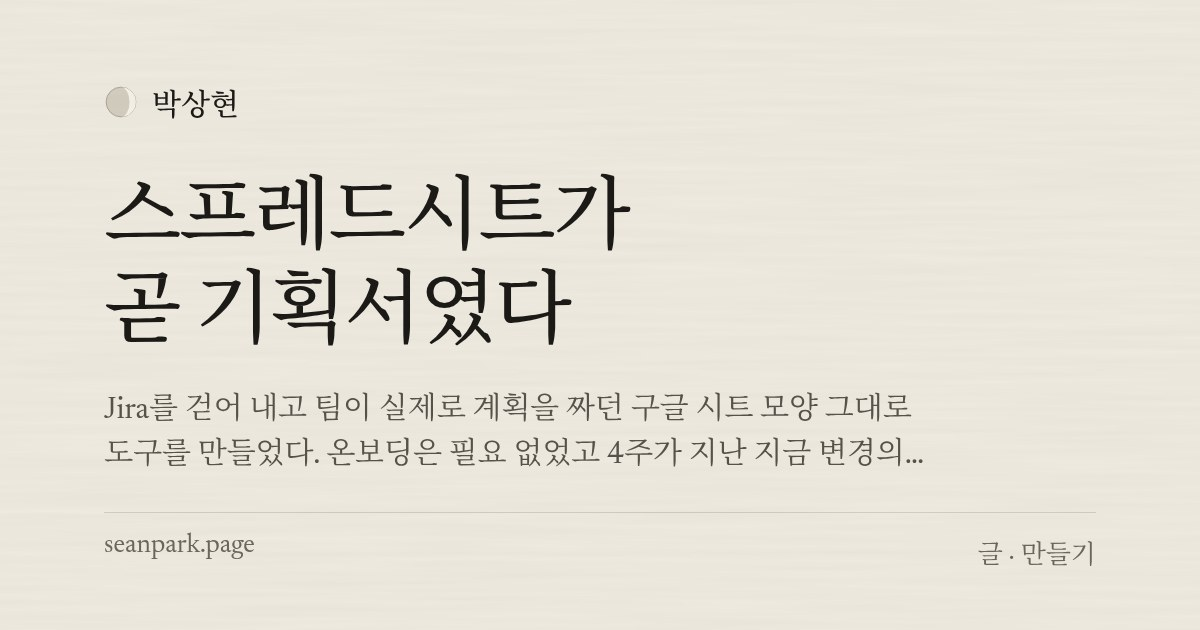
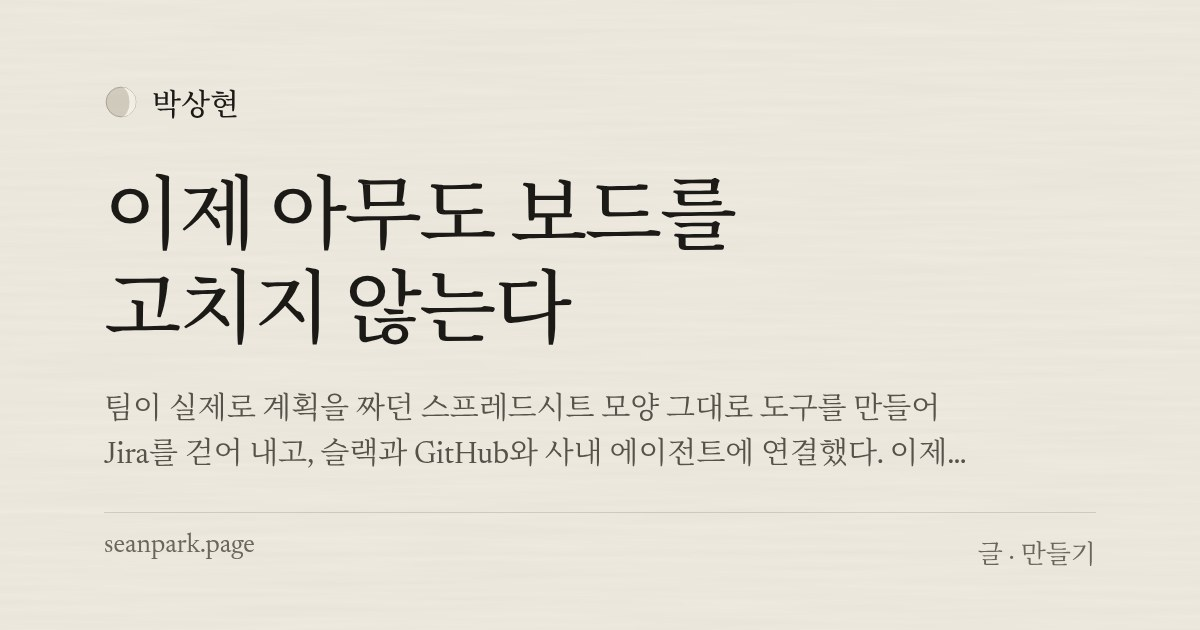
Writing: the-sheet reframed as Nobody updates the board anymore (EN + KO), no metrics; double-diamond figure; share cards; e2e follows the new title and figure

diff --git a/src/styles/global.css b/src/styles/global.css
@@ -336,6 +336,15 @@ main{margin-left:calc(var(--gut) + var(--rail));padding-right:48px;max-width:100
 .prose .flow li:not(:last-child)::after{content:"→";position:absolute;right:-20px;top:5px;color:var(--faint)}
 .prose .flow small{display:block;font-size:13px;color:var(--faint)}
 .prose .flow .loop{font-size:15px;color:var(--soft);margin-top:12px}
+/* the-sheet: a double diamond, the opening halves shaded (AI with each engineer), a dot where each one closes (a meeting) */
+.prose figure.dd{width:100%}
+.prose .dd svg{display:block;width:100%;height:auto;overflow:visible}
+.prose .dd polygon{stroke:var(--fg);stroke-width:1;vector-effect:non-scaling-stroke;stroke-linejoin:round}
+.prose .dd .op{fill:var(--fg);fill-opacity:.12}.prose .dd .cl{fill:none}
+.prose .dd circle{fill:var(--fg)}
+.prose .dd ol{display:grid;grid-template-columns:repeat(4,minmax(0,1fr));gap:0 10px;margin-top:10px;font-size:15px;line-height:1.3}
+.prose .dd li{padding:0;margin:0}.prose .dd li::before{content:none}
+.prose .dd small{display:block;font-size:13px;color:var(--faint);margin-top:2px}
 .prose .split .bar{display:flex;gap:2px;height:22px}
 .prose .split i{flex:0 0 calc(var(--w) - 2px);background:var(--fg);border-radius:2px}
 .prose .split i:nth-child(2){opacity:.45}.prose .split i:nth-child(3){opacity:.2}

diff --git a/src/content/writing-ko/the-sheet.md b/src/content/writing-ko/the-sheet.md
@@ -1,34 +1,38 @@
 ---
-title: 스프레드시트가 곧 기획서였다
-dek: Jira를 걷어 내고 팀이 실제로 계획을 짜던 구글 시트 모양 그대로 도구를 만들었다. 온보딩은 필요 없었고 4주가 지난 지금 변경의 대부분은 사람이 입력하지 않는다.
+title: 이제 아무도 보드를 고치지 않는다
+dek: 팀이 실제로 계획을 짜던 스프레드시트 모양 그대로 도구를 만들어 Jira를 걷어 내고, 슬랙과 GitHub와 사내 에이전트에 연결했다. 이제 기록은 일하는 과정에서 저절로 남고, 회의는 사람이 내려야 하는 결정에만 쓴다.
 lens: 만들기
-keywords: ["Jira 대체 사내 도구", "온보딩 없는 사내 도구 도입", "AI 에이전트 프로젝트 관리", "pave the cowpaths"]
-tldr: "팀이 이미 믿는 모양을 베끼고 팀이 이미 쓰는 말로 이름을 붙였다. 그러자 연동에 규칙이 필요 없어졌다. 4주 동안 쌓인 변경 4,307건 가운데 78%는 사람이 직접 입력한 게 아니다."
+keywords: ["애자일 다음의 개발 방식", "AI 에이전트 프로젝트 관리", "개발팀의 더블 다이아몬드", "Jira 대체 사내 도구", "pave the cowpaths"]
+tldr: "애자일에서 보드를 맞게 유지하는 건 사람이 치르는 의식이었다. 도구를 팀의 모양과 팀의 말로 만들고 일이 실제로 일어나는 곳에 연결하면 보드는 알아서 맞춰진다. 그러면 회의는 진행 상황과 배경 설명을 건너뛰고 곧장 결정으로 간다."
 ---
 
-첫 커밋을 하고 3주 뒤에 Jira를 닫았다. 킥오프도 사용법 교육도 없었고 「도구 쓰는 법」 문서는 지금도 없다.
+우리 팀에서는 이제 아무도 보드를 손으로 고치지 않는다. 보드가 일에서 알아서 갱신되고, 그 덕에 회의의 쓰임새가 바뀌었다.
 
-이 도구는 구글 시트를 그대로 베낀 것이다.
+워터폴 시절 계획은 누군가 처음에 써 둔 문서에 있었다. 애자일은 계획을 보드로 옮겼고, 그 보드를 맞게 유지하는 일을 팀의 의식으로 만들었다. 스탠드업, 백로그 정리 회의, 다음 칸으로 옮겨야 하는 티켓 같은 것들이다. 이 의식이 대부분 필요한 이유는 보드가 일을 직접 볼 수 없어서다. 그래서 누군가 알려 줘야 한다.
 
-## 계획은 사실 시트에 있었다
+그다음에 올 것의 이름은 나도 모르고, 이름을 안다고 하는 사람은 좀 의심한다. 다만 Baze를 만드는 우리 팀에서 그 작은 버전 하나가 실제로 일어나는 걸 봤다. 시작은 스프레드시트였다.
 
-9월까지 Baze를 만드는 팀은 구글 시트 한 장으로 계획을 짰다. 열 명 남짓한 팀이고 릴리스는 거의 매주 나간다. 달이 바뀔 때마다 탭을 새로 만들었다. 사람마다 색 띠가 있었고 작업 하나는 걸리는 주만큼 병합한 칸 하나였다. 맨 위 두 줄에는 그 주의 주요 날짜와 릴리스 단계(「R24 QA + 배포; R25 Dev」 같은 식)를 적었다. 누가 언제 무엇을 하는지 한눈에 보였다.
+## 계획은 스프레드시트에 있었다
 
-시트에 담을 수 없는 건 상태였다. 작업이 진행 중인지, 스테이징에 올라갔는지는 Jira에만 있었고 둘을 잇는 건 누군가 칸에 손으로 붙여 넣은 티켓 번호뿐이었다. 같은 기능의 프론트엔드 작업과 백엔드 작업은 서로 다른 사람의 줄에 따로 그려져 있어서 한쪽이 밀려도 다른 쪽은 몰랐다. 일정을 하루 옮기려면 병합을 풀고 다시 병합해야 했다. 9월쯤 그 파일의 탭은 스물여섯 개였다.
+올해 9월까지 우리는 구글 시트 한 장으로 계획을 짰다. 열 명 남짓한 팀이고 릴리스는 거의 매주 나간다. 사람마다 줄이 하나, 주마다 열이 하나 있었고, 작업 하나는 걸리는 주만큼 병합한 칸이었다. 맨 위 두 줄에는 그 주의 주요 날짜와 릴리스 단계를 적었다. 누가 언제 무엇을 하는지 한눈에 보였다.
 
-Jira가 없었던 건 아니다. 하지만 실제로는 백로그 보관함에 가까웠다. 9월에 둘을 맞대어 봤다. 시트에 계획된 작업 135개 가운데 52개는 티켓이 없었고, 반대로 열려 있는데 시트 어디에도 없는 티켓이 44개였다. 열린 티켓 100개 중 83개는 만들어진 상태 그대로였다. 9월 1일부터 18일까지 사람이 머지한 PR 318건 가운데 티켓 번호가 붙은 건 21건, 7%였다. 무엇이 실제로 나갔는지는 어느 쪽도 몰랐다.
+시트에 못 담는 건 상태였다. 작업이 진행 중인지 스테이징에 올라갔는지는 Jira에만 있었고, 둘을 잇는 건 누군가 칸에 붙여 넣은 티켓 번호뿐이었다. 한 기능의 프론트엔드와 백엔드는 서로 다른 사람의 줄에 따로 있었다. Jira 타임라인에는 하위 작업도 없어서 한쪽이 밀려도 다른 쪽은 몰랐다. 기능 하나를 다음 릴리스로 옮기려면 두 곳을 다 고쳐야 했다. 결국 실제로 무엇이 나갔는지는 어느 쪽도 제대로 알지 못했다.
 
-누가 게을러서 생긴 문제가 아니고 Jira에 기능이 모자랐던 것도 아니다. 계획은 사람×주 격자에서 세우고 상태는 다른 곳에서 관리하니, 둘을 맞추는 일은 늘 본업 위에 얹힌 일이었고 좀처럼 되지 않았다. Linear나 Monday로 옮겨도 마찬가지였을 것이다. 결국 남이 만든 보드에 팀을 맞추는 일이니까. 그래서 격자를 직접 만들었다.
+누가 게을러서가 아니었다. 계획은 한 도구에서 세우고 보고는 다른 도구에 하니, 둘을 맞추는 일이 본업 위에 하나 더 얹혀 있었다. Linear나 Monday로 옮겨 봐야 그 일은 그대로 남고 새 보드 사용법만 늘었을 것이다. 그래서 격자를 직접 만들었다.
 
-W3C가 2007년에 정리한 [HTML 설계 원칙](https://www.w3.org/TR/html-design-principles/#pave-the-cowpaths)에는 「소가 다니는 길을 포장하라(pave the cowpaths)」라는 항목이 있다. 원문을 옮기면 이렇다. 「작성자들 사이에 이미 널리 퍼진 관행이 있다면 금지하거나 새로 발명하기보다 그 관행을 채택하는 쪽을 고려하라.」 우리 팀에 널리 퍼진 관행은 스프레드시트였다.
+## 다니는 길은 포장하고 돌아가는 길은 없앤다
 
-반론으로 유명한 문장은 W3C보다 더 오래됐다. 1990년 마이클 해머는 하버드 비즈니스 리뷰에 「이제 소가 다니는 길을 포장하는 일은 그만둘 때다」라고 썼다. 낡은 프로세스 위에 소프트웨어를 얹으면 낡은 프로세스가 더 빨리 돌아갈 뿐이라는 얘기다. 맞는 말이고 그래서 여기서 무엇이 망가져 있었는지 물어볼 만하다. 격자는 아니었다. 사람들은 매일 그 안에서 계획을 짰다. 망가진 건 그 옆에 붙은 두 번째 시스템이었고 우리가 없앤 게 바로 그것이다. 사람들이 걷는 길은 포장하고 돌아가는 길은 없앤다.
+W3C의 [HTML 설계 원칙](https://www.w3.org/TR/html-design-principles/#pave-the-cowpaths)에는 「소가 다니는 길을 포장하라(pave the cowpaths)」라는 항목이 있다. 「작성자들 사이에 이미 널리 퍼진 관행이 있다면 금지하거나 새로 발명하기보다 그 관행을 받아들이는 쪽을 고려하라.」 우리 팀에 널리 퍼진 관행은 스프레드시트였다.
 
-그래서 도구에는 시트와 같은 사람별 줄, 같은 주 단위 열, 같은 맨 위 릴리스 줄이 있다. 칸을 끌어서 옮기고 늘릴 수 있고 예전 시트에서 복사한 셀을 그대로 붙여 넣을 수도 있다. 달라진 점은 블록 하나하나가 담당자와 상태, 릴리스를 가진 작업이 됐다는 것이다. 더한 건 시트가 못 하던 것뿐이다.
+유명한 반론은 더 오래됐다. 1990년 마이클 해머는 하버드 비즈니스 리뷰에 「Reengineering Work: Don't Automate, Obliterate」를 쓰면서 「이제 소가 다니는 길을 포장하는 일은 그만둘 때다」라고 했다. 낡은 프로세스 위에 소프트웨어를 얹으면 낡은 프로세스가 더 빨리 돌 뿐이라는 얘기다. 맞는 말이다. 그러니 여기서 정말 망가진 게 뭐였는지 따져 볼 만하다. 격자는 멀쩡했다. 다들 매일 그 안에서 계획을 짰다. 망가진 건 그 옆에 붙은 두 번째 시스템이었다. 사람들이 다니는 길은 포장하고, 돌아가는 길은 없애 버린다.
 
-- 한 기능의 FE와 BE를 묶는 공통 스펙. 요구사항과 결정 사항은 한곳에 있고 FE와 BE는 각자 담당과 일정, 상태를 따로 가진다. 한쪽이 밀리면 바로 옆에서 보인다.
-- 배포 흐름을 그대로 옮긴 상태 이름. 우리가 원래 쓰던 반은 한국어, 반은 영어인 말 그대로다. 범용 도구였다면 대부분 「In Progress」 하나로 뭉뚱그렸을 단계다.
-- 릴리스 화면. 기능마다 BE와 FE를 나란히 보여 주고 계획이 안 맞으면 경고를 띄운다. 백엔드가 프론트엔드보다 늦게 끝나게 잡혀 있거나 아직 타임라인에 배치되지 않았거나 출시일을 넘기거나 누군가의 연차와 겹치는 경우다.
+먼저 시트와 Jira에서 이미 잘 돌던 부분을 옮겼다. 타임라인, 그리고 작업 세부 내용을 보는 사이드 서랍이다. 그다음 아프던 부분을 고쳤다. 작업을 이 릴리스에서 저 릴리스로 옮기는 일, 릴리스 일정을 고치려고 Jira와 타임라인을 오가는 일, 한 기능의 FE와 BE를 따로따로 고치는 일. 첫 버전을 만드는 데 일주일 반이 걸렸다. 따로 돌던 앱을 Cloudflare Access 뒤로 옮기는 건 동료 한 명이 도와줬다.
+
+겉은 시트 그대로지만 격자 위 블록 하나하나는 담당자와 상태와 릴리스를 가진 작업이 됐다. 그 위에 더한 건 시트가 못 하던 것뿐이다.
+
+- 한 기능의 FE와 BE를 묶는 공통 스펙. 요구 사항과 결정은 한곳에 있고, FE와 BE는 각자 담당자와 일정과 상태를 나란히 가진다.
+- 배포 흐름에서 그대로 따온 상태 이름. 우리가 원래 쓰던 반은 한국어, 반은 영어인 말 그대로다.
+- 릴리스 화면. 기능마다 BE와 FE를 같이 보여 주고 계획이 안 맞으면 경고를 띄운다. 백엔드가 프론트엔드보다 늦게 끝나거나, 날짜가 릴리스를 넘기거나, 누군가 쉬는 날에 일이 잡혀 있을 때다.
 
 <figure class="flow">
 <ol>
@@ -43,42 +47,63 @@ W3C가 2007년에 정리한 [HTML 설계 원칙](https://www.w3.org/TR/html-desi
 <figcaption>상태가 곧 배포 단계다. 테두리가 진한 단계는 GitHub가 알아서 옮긴다.</figcaption>
 </figure>
 
-## 온보딩이 필요 없었던 이유
+온보딩은 필요 없었다. 행과 열은 다들 매일 보던 시트 그대로였고, 상태 이름과 릴리스 이름은 회의에서 늘 하던 말이었다. 사용법 교육도 없었고, 「도구 쓰는 법」 문서는 지금도 없다.
 
-첫 커밋은 9월 27일이었다. 10월 첫 주에 여섯 명이 쓰기 시작했고 셋째 주에는 열 명이 직접 무언가를 고쳤다. 10월 16일에 Jira를 닫았다.
+## 기록은 일에서 저절로 나온다
 
-가르칠 게 별로 없었다. 행과 열은 다들 매일 보던 시트 그대로였다. 상태 이름과 릴리스 이름(R26, R27)도 회의에서 쓰던 말 그대로였다. 새로 생긴 개념은 공통 스펙 하나였는데 이것도 FE와 BE 담당자가 원래 슬랙 스레드에서 손으로 맞추던 걸 화면으로 옮겨 온 것이었다.
+연동 가운데 무엇을 어디에 적으라는 규칙집에서 출발한 건 하나도 없다. 도구가 일하면서 원래 생기는 말을 그대로 쓰니까 그냥 돌아간다.
 
-기능 요청이 코드로 온 적도 있다. 백엔드 개발자 한 명이 「내 작업」 화면에 상태 필터가 필요하다며 직접 PR을 올려 넣었다. 나머지 요청도 대부분 슬랙 한 줄로 와서 그날 반영됐다.
+- GitHub. 작업 키를 브랜치 이름에 넣는다(`feat/<task-key>`). PR을 열면 작업이 진행 중으로, dev에 머지하면 dev 머지로, main에 들어가면 완료로 옮겨지고 PR 링크가 작업에 붙는다.
+- 캘린더. 연차와 공휴일이 매일 아침 들어와 타임라인에 표시된다. 그래서 누군가 쉬는 날에 잡힌 일에는 경고가 뜬다.
+- 슬랙, 사내 에이전트를 통해서. 누구든 스레드에서 이 대화를 작업으로 만들어 달라고 하면 에이전트가 FE와 BE까지 나눠서 만든다. 평일 저녁마다 그날의 팀 채널과 회의록을 읽고, 확실히 정해진 것(결정, 바뀐 릴리스, 머지된 PR)은 바로 반영하고 판단이 필요한 건 담당자에게 묻는다.
 
-온보딩은 도구의 말과 팀의 말 사이 거리에 붙는 세금이다. 그 거리를 0으로 만들면 낼 세금도 없다.
+에이전트는 다른 사람들과 같은 화면을 같은 말로 읽는다. 그래서 따로 설명할 게 거의 없었다. 이건 어느 팀에나 통한다고 생각한다. 에이전트도 사용자 한 명이고, 사람처럼 도구의 말과 팀의 말 사이 거리가 짧아야 한다. 데이터 모델을 에이전트에게 설명하는 데 긴 프롬프트가 필요하다면 사람에게도 교육 문서가 필요할 것이다.
 
-## 규칙집 없이 붙은 자동화
+도구가 계속 커진 것도 같은 연결 덕이다. 필요한 기능이라고 내가 동의하면 팀의 누구든 에이전트와 함께 그 기능을 넣거나 고칠 수 있었다. 백엔드 개발자 한 명은 「내 작업」에 상태 필터가 필요하다며 직접 PR을 올려 넣었다.
 
-더 큰 변화는 누가 입력하느냐다. 처음 4주 동안 작업 358개와 릴리스 6개에 남은 변경 기록은 4,307건이다. 사람 열한 명이 947건, GitHub가 185건, AI 에이전트가 3,175건을 남겼다.
+## 이제 회의는 무엇에 쓰나
 
-<figure class="split">
-<div class="bar" role="img" aria-label="변경 4,307건: AI 에이전트 3,175건, 사람 947건, GitHub 185건">
-<i style="--w:73.7%"></i><i style="--w:22%"></i><i style="--w:4.3%"></i>
-</div>
-<p class="key num"><span>AI 에이전트 · 3,175</span><span>사람 11명 · 947</span><span>GitHub · 185</span></p>
-<figcaption>작업을 바꾼 주체, 9월 27일부터 10월 26일까지. 78%는 사람이 직접 입력하지 않았다.</figcaption>
+내가 제일 아끼는 부분이다.
+
+보드가 알아서 맞춰지자 기능을 만드는 방식도 같이 바뀌었다. 우리는 기능마다 [더블 다이아몬드](https://www.designcouncil.org.uk/our-resources/the-double-diamond/)로 일한다. 디자인 카운슬이 정리한 모델로, 넓게 펼쳐 탐색하고 좁혀서 결정하는 과정을 두 번 거친다. 한 번은 문제에서, 한 번은 해법에서. 사람 사이에서는 댄 몰과 브래드 프로스트가 말한 [핫 포테이토 프로세스](https://danmall.com/posts/hot-potato-process)처럼 움직인다. 한 번에 크게 넘기지 않고 작게, 자주 주고받는다.
+
+AI는 펼치는 쪽에서 엔지니어 한 명 한 명과 일한다. 기능이 첫 회의에 올라올 때쯤이면 슬랙에서 오간 이야기와 비즈니스 배경이 이미 작업 안에 들어 있다. 에이전트가 넣어 둔 것이다. 엔지니어는 그 문제를 하루 동안 붙잡고 어떻게 풀지 생각해 둔 상태다.
+
+그래서 회의는 다이아몬드가 좁혀지는 지점에서만 한다. 이 회의들은 내가 제안했고 내가 진행한다.
+
+- 풀스택 조율. 프론트엔드와 백엔드가 맞물려야 하는 곳.
+- 아키텍처가 비즈니스 관점에서 확장될 수 있는지.
+- 내보내기 전에 하는 사내 사용자 테스트.
+
+예전 기능 회의는 비즈니스 맥락부터 시작했다. 이 기능이 왜 필요한지, 누가 원하는지, 어떤 문제를 푸는지. 지금은 다들 같은 이해를 갖고 들어오니 곧장 ERD와 와이어프레임이나 프로토타입을 펴 놓고 하나만 묻는다. 우리가 설계한 구조가 이 비즈니스 문제를 푸는가?
+
+<figure class="dd">
+<svg viewBox="-6 0 412 120" role="img" aria-label="더블 다이아몬드. 펼치는 두 구간은 엔지니어와 AI가 함께 일하는 곳으로 칠해져 있고, 다이아몬드가 좁혀지는 두 지점에 회의를 뜻하는 점이 있다.">
+<polygon class="op" points="0,60 100,4 100,116"/><polygon class="cl" points="100,4 200,60 100,116"/>
+<polygon class="op" points="200,60 300,4 300,116"/><polygon class="cl" points="300,4 400,60 300,116"/>
+<circle cx="200" cy="60" r="6"/><circle cx="400" cy="60" r="6"/>
+</svg>
+<ol>
+<li>발견<small>엔지니어 + AI</small></li>
+<li>정의<small>회의: ERD와 프로토타입</small></li>
+<li>개발<small>엔지니어 + AI</small></li>
+<li>전달<small>회의: 사용자 테스트</small></li>
+</ol>
+<figcaption>다이아몬드가 펼쳐지는 곳에서는 AI가 엔지니어와 일하고, 좁혀지는 곳에서는 사람이 모인다.</figcaption>
 </figure>
 
-- GitHub: 브랜치 이름에 작업 번호를 넣으면(`feat/bz-12`), PR을 열 때 「진행 중」, dev에 머지되면 「dev 머지」, main에 들어가면 「완료」로 작업이 옮겨 간다. PR 링크는 작업의 출처로 붙는다.
-- 캘린더: 연차와 공휴일을 매일 아침 가져와 타임라인에 띄운다. 누군가의 쉬는 날에 잡힌 작업에는 경고가 뜬다.
-- 에이전트: 슬랙 스레드에서 이 스레드로 작업을 만들어 달라고 하면 FE와 BE까지 나눠 작업을 만든다. 평일 저녁마다 그날의 팀 채널과 회의록을 읽고 결정이나 릴리스 이동, 머지된 PR처럼 분명한 변경은 바로 반영한다. 판단이 필요한 것만 담당자에게 묻는다.
+**진행 상황을 맞추려고 회의할 필요는 없다. 회의는 결정을 위해 한다.**
 
-이 중 어느 것도 「무엇을 언제 어디에 적어라」 같은 규칙집에서 시작하지 않았다. 상태 이름이 곧 배포 단계이고 작업 번호가 곧 브랜치 이름이라, 하던 일을 하면 기록이 따라 남는다. 에이전트도 다른 사람과 같은 화면을 같은 말로 보고 일한다. 그래서 에이전트에게 설명할 것도 거의 없었다.
+## 무엇이 나가는지 모두가 안다
 
-다른 팀에도 통할 이야기는 이 부분이라고 생각한다. 에이전트는 사용자가 한 명 더 느는 것이고 사람과 똑같이 거리가 0인 어휘가 필요하다. 에이전트에게 데이터 모델을 설명하는 데 긴 프롬프트가 필요하다면 사람에게도 교육 문서가 필요할 것이다.
+예전 계획은 그걸 관리하는 사람만 읽을 수 있었다. 영업팀은 어떤 기능이 목요일에 나가는지 알려면 익숙하지도 않은 시트와 Jira를 뒤져야 했다. 지금은 회사 누구든 릴리스 페이지를 열거나 에이전트에게 물으면 된다. 아무도 손으로 입력하지 않았으니 답은 늘 최신이다.
 
-계획이 정확해지자 다른 일들이 이걸 읽기 시작했다. 고객 문의가 오면 에이전트는 담당자를 태그하기 전에 그 사람이 오늘 연차인지 먼저 확인한다. 릴리스 테스트 문서는 릴리스 화면의 기능 목록에서 바로 만들어진다. 주간 제품 회의는 시트를 여는 대신 릴리스 화면을 연다.
+## 아직 남은 것
 
-이건 스프레드시트로 계획을 짜던 열 명짜리 팀의 이야기다. 컴플라이언스 요구가 있는 큰 조직은 문제가 다르다.
+첫 버전은 거칠었다. 정말 쓰기 편하다고 느끼려면 단축키와 알림부터 해서 더 많은 게 필요했다.
 
-## 3주 만에 만든 방법
+그리고 이건 스프레드시트로 계획을 짜던 열 명 남짓한 팀의 이야기다. 컴플라이언스 요건이 있는 큰 조직은 문제가 다르다. 그런 곳에 이 도구를 지금 모습 그대로 건네지는 않을 것이다.
 
-[Sean: 어떻게 이렇게 빨리 만들었는지. Claude Code, 프로토타입 먼저, 9/27 킥오프 인터뷰에서 나온 스펙. 다시 해도 같게 할 선택, 그리고 잘 안 된 것 하나와 그 대가. 있다면: 에이전트가 바꾼 것 중 사람이 나중에 고치거나 되돌린 건 몇 건인지, 에이전트에게 준 도구 설명은 얼마나 긴지.]
+중요한 건 처음부터 도구가 아니었다. 어디에 가든 가져갈 건 그 뒤의 습관이다. 팀이 일하는 방식에서 막히는 곳을 찾고, 팀과 함께 고치고, 에이전트를 팀원 한 명으로 대한다. 「도구 쓰는 법」 문서는 아직도 안 썼다.
 
-도구는 시트가 알던 것보다 훨씬 많이 알고 팀은 덜 적는다. 「도구 쓰는 법」 문서는 아직도 쓰지 않았다.
+*내 초고와 인터뷰를 바탕으로 에이전트와 초안을 쓰고, 내가 고쳤다.*

diff --git a/src/content/writing/the-sheet.md b/src/content/writing/the-sheet.md
@@ -1,38 +1,42 @@
 ---
-title: The spreadsheet was the spec
-dek: I replaced our Jira with a tool shaped like the Google Sheet the team really planned in. Nobody needed onboarding, and four weeks in, most of the edits aren't typed by a person.
+title: Nobody updates the board anymore
+dek: I replaced our Jira with a tool shaped like the spreadsheet the team really planned in, then wired it to Slack, GitHub and our agent. The record comes out of the work now, and our meetings are only for the calls a person has to make.
 lens: Building
 order: 1
 stage: essay
-updated: 2026-10-27
+updated: 2026-11-22
 project: baze
-keywords: ["replacing Jira with an internal tool", "internal tool adoption without onboarding", "AI agent project management", "pave the cowpaths"]
-tldr: "Copy the shape the team already trusts and name things the way they already talk. Then integrations stop needing rules. Of 4,307 changes in four weeks, 78% weren't typed by a person."
+keywords: ["what comes after agile", "AI agent project management", "double diamond for engineering teams", "replacing Jira with an internal tool", "pave the cowpaths"]
+tldr: "Under agile, keeping the board true was a ritual people performed. Build the tool in the team's own shape and words, wire it to where the work already happens, and the board keeps itself. Then meetings can skip the status and the why, and go straight to the decisions."
 ---
 
-Three weeks after the first commit, we closed Jira. There was no kickoff and no training session, and there's still no "how we use the tool" page.
+Nobody on our team updates the board anymore. It updates itself from the work, and that changed what our meetings are for.
 
-The tool is a copy of a Google Sheet.
+Waterfall kept the plan in a document someone wrote up front. Agile moved the plan onto a board and made keeping that board true a team ritual: the standup, the grooming session, the ticket you're supposed to drag to the next column. Most of that ritual exists because the board can't see the work, so somebody has to tell it.
 
-## Where the plan really lived
+I don't have a name for what comes after, and I'm wary of anyone who does. But I've watched one small version of it happen on the team that builds Baze, and it started with a spreadsheet.
 
-Until September, the team that builds Baze planned in one Google Sheet. It's about ten people, and a release goes out almost every week. Every month got a new tab. Each person had a color band, each task was a merged cell across the weeks it took, and two rows at the top held the week's key dates and release stage (something like "R24 QA + deploy; R25 dev"). You could see who was doing what, and when, at a glance.
+## The plan lived in a spreadsheet
 
-What the sheet couldn't hold was state. Whether a task was in progress or on staging lived in Jira, and the only link between the two was a ticket key someone pasted into a cell. The frontend and backend halves of one feature sat in two different people's rows, so when one slipped, the other didn't know. Moving a task by a day meant unmerging cells and merging them again. By September the file had 26 tabs.
+Until this September we planned in one Google Sheet. We're about ten people and we ship almost every week. Each person had a row and each week a column, and a task was a merged cell stretched across the weeks it took. Two rows at the top held the week's key dates and the release stage. You could see who was doing what, and when, at a glance.
 
-We did have Jira, but in practice it was a backlog archive. In September we lined the two up. 52 of the 135 tasks planned on the sheet had no ticket, and 44 open tickets weren't anywhere on the sheet. 83 of the 100 open tickets were still in the state they were created in. Of the 318 pull requests people merged between September 1 and 18, 21 carried a ticket key. That's seven percent. Neither system knew what had shipped.
+What the sheet couldn't hold was state. Whether a task was in progress or on staging lived in Jira, and the only link between the two was a ticket key somebody pasted into a cell. The frontend and backend halves of one feature sat in two people's rows, and Jira's timeline had no subtasks, so when one half slipped the other didn't know. Moving a feature to the next release meant fixing it in both places. In the end neither one really knew what had shipped.
 
-That isn't a discipline problem, and Jira wasn't missing features. The team planned in a person-by-week grid and tracked status somewhere else, so keeping the two in sync was always one more job on top of the real one, and it rarely got done. Moving to Linear or Monday wouldn't have changed that, since we'd still be fitting the team to someone else's board. So I built the grid.
+Nobody was being lazy. The team planned in one tool and reported in another, and keeping them in sync was a second job on top of the real one. Moving to Linear or Monday would have kept that second job and added a new board to learn. So I built the grid.
 
-The W3C's 2007 [HTML design principles](https://www.w3.org/TR/html-design-principles/#pave-the-cowpaths) include one called "pave the cowpaths": "When a practice is already widespread among authors, consider adopting it rather than forbidding it or inventing something new." Our team's widespread practice was a spreadsheet.
+## Pave the path, obliterate the detour
 
-The famous objection is older than the W3C's line. In 1990 Michael Hammer wrote in the Harvard Business Review, "It is time to stop paving the cow paths." His point was that software laid over an old process just runs the old process faster. He's right, and it's worth asking what was broken here. The grid wasn't. People planned in it every day. What was broken was the second system next to it, and that's the part we got rid of. Pave the path people walk, and obliterate the detour.
+The W3C's [HTML design principles](https://www.w3.org/TR/html-design-principles/#pave-the-cowpaths) include one called "pave the cowpaths": "When a practice is already widespread among authors, consider adopting it rather than forbidding it or inventing something new." Our team's widespread practice was a spreadsheet.
 
-So the tool has the same rows, the same week columns and the same release row on top. You can drag a task, stretch it, or paste cells copied straight out of the old sheet. The difference is that every block is now a task with an owner, a status and a release. I only added what the sheet couldn't do:
+The famous objection is older. In 1990 Michael Hammer wrote "Reengineering Work: Don't Automate, Obliterate" for the Harvard Business Review, with the line "It is time to stop paving the cow paths." Put software over an old process and you get the old process, faster. He's right, so it's worth asking what was actually broken. The grid wasn't. People planned in it every day. The broken part was the second system next to it. Pave the path people walk, and obliterate the detour.
 
-- One spec for both halves of a feature. Requirements and decisions live in one place, and the FE and BE parts each keep their own owner, dates and status. When one slips, it's right next to the other.
-- Status names from our deploy pipeline, in the words we already used, half Korean and half English. A generic tool would have called most of them "In Progress."
-- A release view that lists every feature's BE and FE side by side and warns when the plan doesn't add up. That means backend finishing after frontend, a task that isn't on the timeline yet, a date past the release, or work scheduled on someone's day off.
+I started by moving over the parts of the sheet and Jira that already worked: the timeline, and the side drawer where you read a task's details. Then I fixed the parts that hurt. Dragging work from one release to the next. Going back and forth between Jira and the timeline to update a release date. Editing the FE and BE halves of a feature as two separate things. The first version took me a week and a half, and a teammate helped me move it from a standalone app to behind Cloudflare Access.
+
+Underneath, every block on the grid became a task with an owner, a status and a release. On top of the grid I only added what the sheet couldn't do:
+
+- One spec for both halves of a feature. Requirements and decisions live in one place, and the FE and BE parts keep their own owner, dates and status, side by side.
+- Status names taken from our deploy pipeline, in the words we already used, half Korean and half English.
+- A release view that lists every feature's BE and FE together and warns when the plan doesn't add up: backend finishing after frontend, a date past the release, work scheduled on someone's day off.
 
 <figure class="flow">
 <ol>
@@ -47,42 +51,63 @@ So the tool has the same rows, the same week columns and the same release row on
 <figcaption>The statuses are the deploy pipeline. GitHub moves a task through the outlined ones by itself.</figcaption>
 </figure>
 
-## Why nobody needed onboarding
+Nobody needed onboarding. The rows and columns were the sheet everyone had looked at every day, and the status and release names were the words we already said in meetings. There was no training session, and there's still no "how we use the tool" page.
 
-The first commit was September 27. Six people were using the tool in the first week of October, ten were editing in it by the third week, and on October 16 we closed Jira.
+## The record falls out of the work
 
-There wasn't much to teach. The rows and columns were the sheet everyone had looked at every day. The status names and release names (R26, R27) were the words we already said in meetings. The one new idea, the shared spec, was something FE and BE owners already did by hand in Slack threads, moved onto the screen.
+None of the integrations started from a rulebook about what to write where. They work because the tool uses the words the work already produces.
 
-One feature request came as code. A backend engineer wanted a status filter on "My tasks," so they opened a pull request and added it. Most other requests were one line in Slack and shipped the same day.
+- GitHub. The task key goes in the branch name (`feat/<task-key>`). Opening the PR moves the task to 진행 중, merging to dev moves it to dev 머지, reaching main moves it to 완료, and the PR link sticks to the task.
+- The calendar. Leave and public holidays come in every morning and show up on the timeline, so work scheduled on someone's day off gets a warning.
+- Slack, through our company agent. Anyone can ask it in a thread to turn the thread into tasks, and it makes them with their FE and BE parts. Every weekday evening it reads the day's team channels and meeting notes, applies what's clearly settled (a decision, a release that moved, a merged PR) and asks the owner about anything that needs judgment.
 
-Onboarding is the tax you pay for the distance between a tool's words and your team's words. Get the distance to zero and there's nothing to pay.
+The agent reads the same screen, in the same words, as everyone else, so there was very little to explain to it. I think that part carries over to any team. An agent is one more user, and it needs the same short distance between the tool's words and the team's words that people do. If your data model needs a long prompt to explain it to the agent, it'll need a training doc for the humans too.
 
-## Automation without a rulebook
+The same wiring is how the tool kept growing. Once I agreed a feature was needed, anyone on the team could add it or change it, with the agent's help. One backend engineer wanted a status filter on "My tasks," so they opened a pull request and added it.
 
-The bigger change is who's typing. In its first four weeks the tool logged 4,307 changes across 358 tasks and six releases. Eleven people made 947 of them, GitHub 185, and our AI agent 3,175.
+## What the meetings are for now
 
-<figure class="split">
-<div class="bar" role="img" aria-label="Of 4,307 changes: AI agent 3,175, people 947, GitHub 185">
-<i style="--w:73.7%"></i><i style="--w:22%"></i><i style="--w:4.3%"></i>
-</div>
-<p class="key num"><span>AI agent · 3,175</span><span>11 people · 947</span><span>GitHub · 185</span></p>
-<figcaption>Who changed a task, September 27 to October 26. 78% of the changes weren't typed by a person.</figcaption>
+This is the part I care about most.
+
+Once the board kept itself, the way we build features changed with it. We run each feature as a [double diamond](https://www.designcouncil.org.uk/our-resources/the-double-diamond/), the Design Council's model of opening up to explore and closing down to decide, done twice: once on the problem, once on the solution. Between people, the work moves the way Dan Mall and Brad Frost describe in [the hot potato process](https://danmall.com/posts/hot-potato-process): small, frequent passes back and forth instead of one big handoff.
+
+The AI works on the opening halves, with each engineer on their own. By the time a feature reaches its first meeting, the Slack discussion and the business reasons behind it are already in the task, because the agent put them there. The engineer has had a day with the problem to think about how it should be solved.
+
+So we only meet where the diamonds close. I proposed these meetings and I run them:
+
+- Full-stack coordination, where the frontend and backend pieces have to meet.
+- Whether the architecture scales from a business standpoint.
+- Internal user testing, before anything goes out.
+
+Our feature meetings used to open with the business context: why this feature, who needs it, what problem it solves. Now everyone walks in on the same page, so we go straight to the ERD and the wireframes or prototype and ask one question. Does what we've architected solve the business problem?
+
+<figure class="dd">
+<svg viewBox="-6 0 412 120" role="img" aria-label="A double diamond. The two opening halves are shaded for AI work with each engineer; a dot marks a meeting at each point where a diamond closes.">
+<polygon class="op" points="0,60 100,4 100,116"/><polygon class="cl" points="100,4 200,60 100,116"/>
+<polygon class="op" points="200,60 300,4 300,116"/><polygon class="cl" points="300,4 400,60 300,116"/>
+<circle cx="200" cy="60" r="6"/><circle cx="400" cy="60" r="6"/>
+</svg>
+<ol>
+<li>Discover<small>engineer + AI</small></li>
+<li>Define<small>meeting: ERD + prototype</small></li>
+<li>Develop<small>engineer + AI</small></li>
+<li>Deliver<small>meeting: user testing</small></li>
+</ol>
+<figcaption>AI works with each engineer where the diamonds open. People meet where they close.</figcaption>
 </figure>
 
-- GitHub: put the task key in the branch name (`feat/bz-12`), and the PR moves the task to 진행 중 when it opens, to dev 머지 when it merges to dev, and to 완료 when it reaches main. The PR link sticks to the task as its source.
-- The calendar: leave and public holidays come in every morning and show up on the timeline. A task scheduled over someone's day off gets a warning.
-- The agent: in a Slack thread, someone can ask it to make tasks from the thread, and it creates them with their FE and BE parts. Every weekday evening it reads that day's team channels and meeting notes. It applies the changes that are clearly settled, like a decision, a release that moved or a merged PR, and asks the owner about anything that needs judgment.
+**Status shouldn't need a meeting. Decisions do.**
 
-None of this started from a rulebook about what to write where. The status names are the deploy steps and the task key is the branch name, so doing the work leaves the record behind. The agent works from the same screen, in the same words, as everyone else, so there was very little to explain to it either.
+## Everyone can see what ships
 
-I think that's the part that carries over. An agent is one more user, and it needs the same zero-distance vocabulary people do. If your data model needs a long prompt to explain it to the agent, it'll need a training doc for the humans too.
+The plan used to be readable only by the people who kept it. Someone in sales who wanted to know whether a feature was going out on Thursday had to check a spreadsheet and a Jira they'd never learned. Now anyone in the company can open the releases page or ask the agent, and the answer is current, because nobody had to type it in.
 
-Once the plan was accurate, other work started reading from it. When a customer question comes in, the agent checks whether the person it's about to tag is on leave today. Release test docs are generated from the release view's feature list. The weekly product meeting stopped opening the sheet and opens the release view instead.
+## What's still open
 
-This is a story about a team of ten that planned in a spreadsheet. A big org with compliance requirements has a different problem.
+The first version was rough. It needed a lot more to feel truly intuitive, starting with hotkeys and notifications.
 
-## How I built it in three weeks
+And this is a team of about ten that planned in a spreadsheet. A big org with compliance requirements has a different problem, and I wouldn't hand them this tool as it is.
 
-[Sean: how you built it so fast. Claude Code, prototype first, the spec from the kickoff interview on 9/27. Which choices you'd make again, and one thing that didn't work and what it cost. If you have them: how many agent changes did a person later edit or undo, and how long is the agent's description of the tool?]
+The tool was never the important part. What I'd bring anywhere is the habit behind it: find the chokepoint in how the team works, build the fix with the team, and treat the agent as one more teammate. I still haven't written the "how we use the tool" page.
 
-The tool knows more than the sheet ever did, and the team types less. I still haven't written the "how we use the tool" page.
+*Drafted with my agent from my own draft and an interview; edited by me.*
